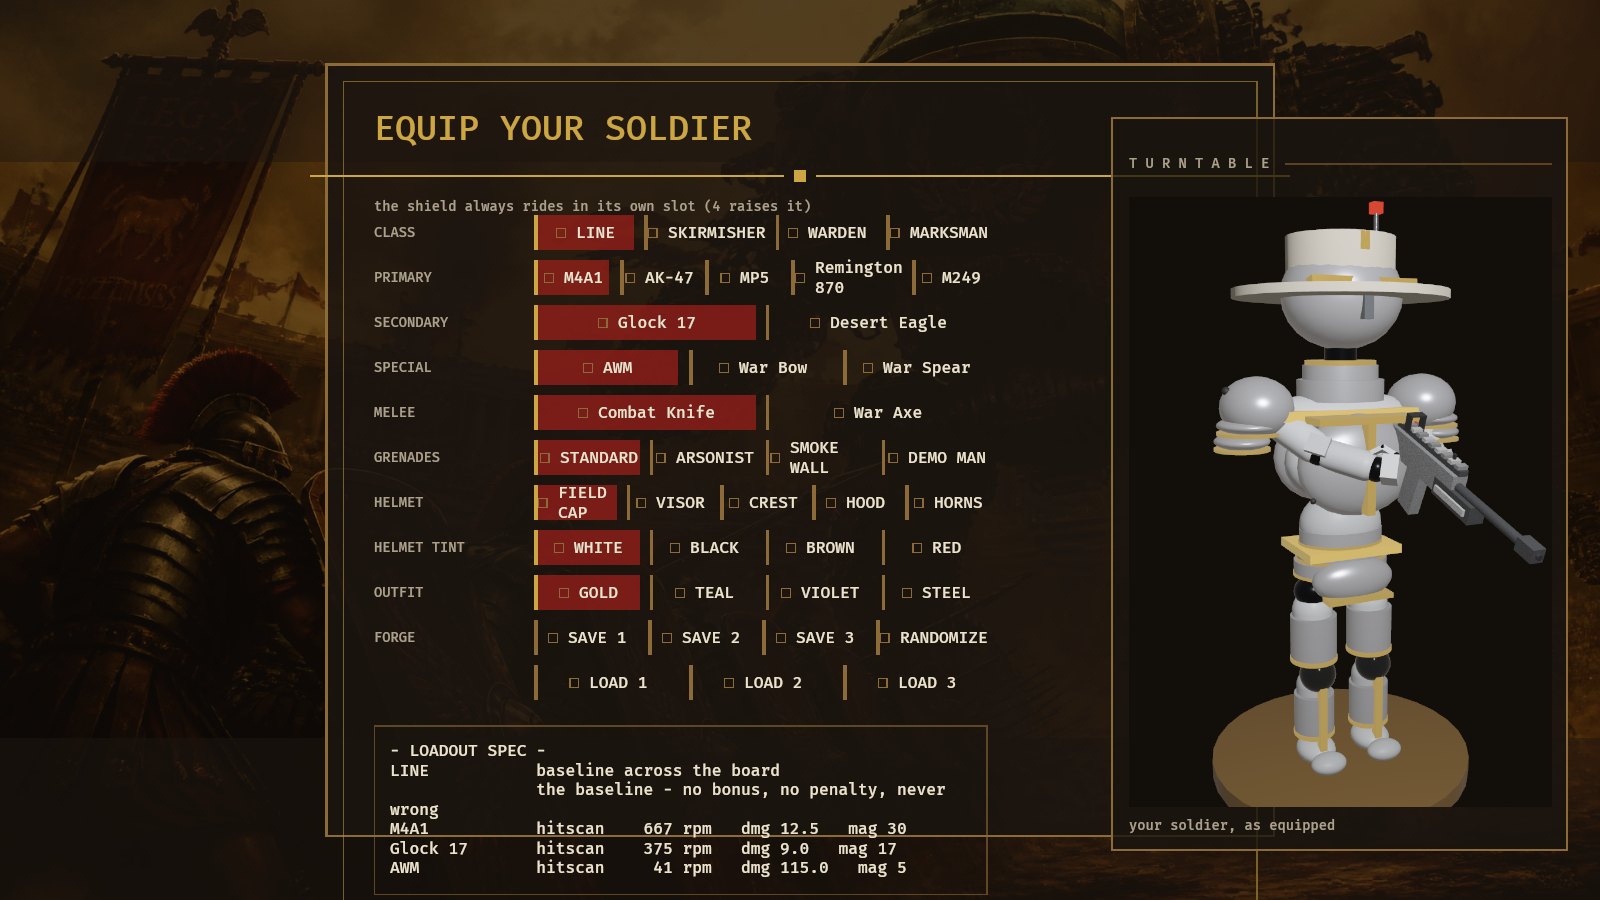
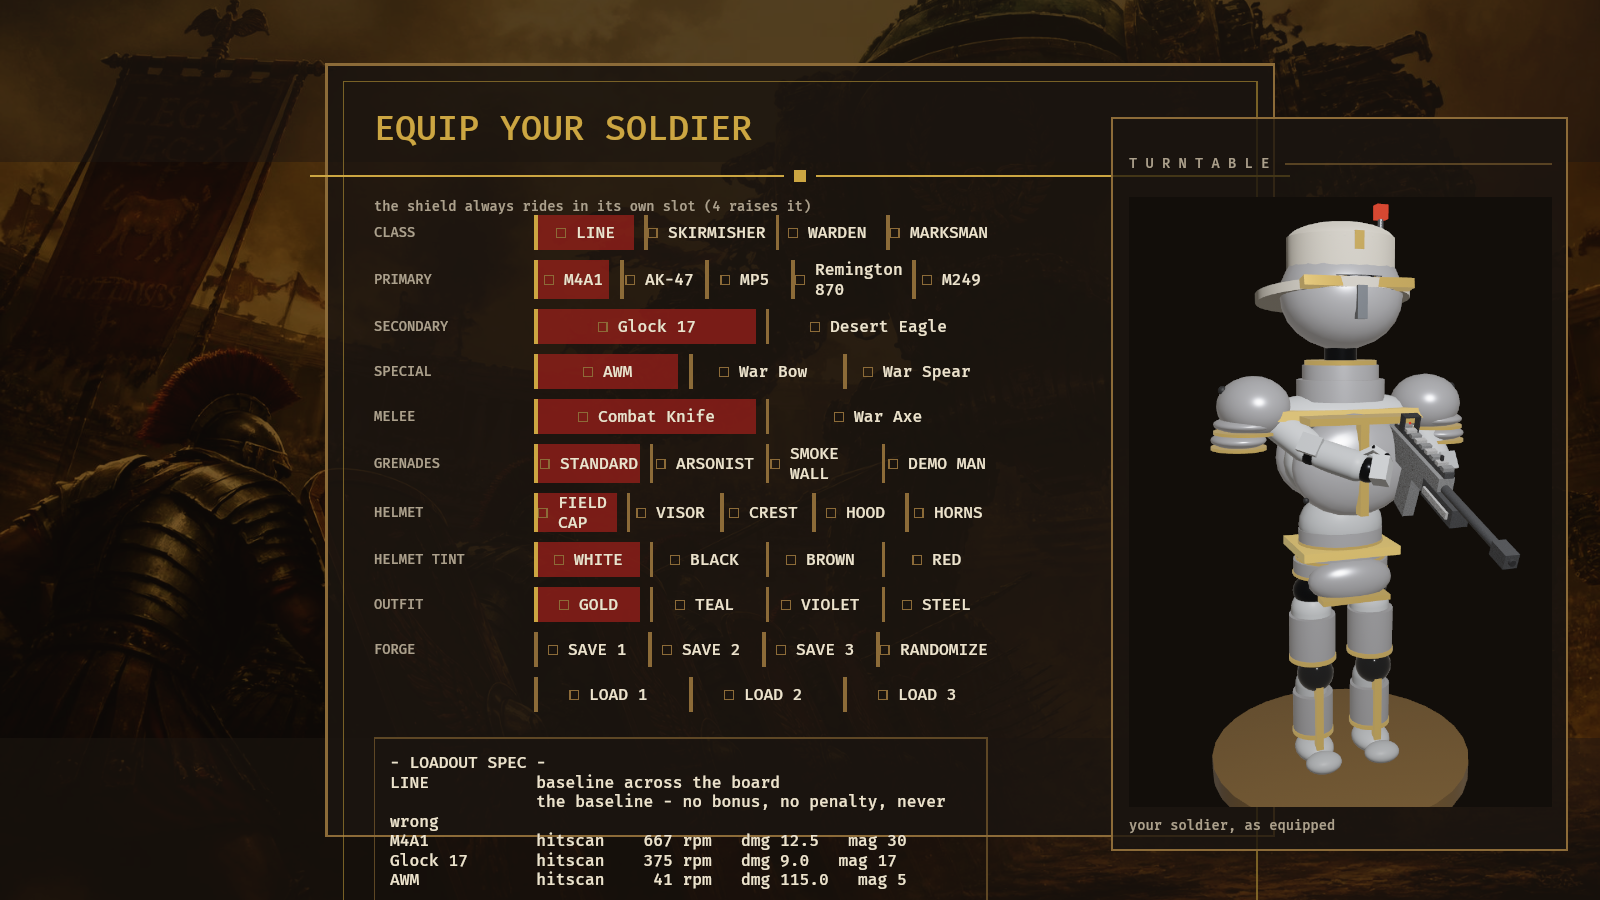
The pill padding cost the soldier page two lines it did not have
Follow-up to 7218e37, caught by actually looking at the capture rather
than at the one page I set out to fix.

`min_height` contained the wrapped plate names, which was the point.
The `U` of vertical padding I added with it did not: it grew every
WRAPPED pill by 10px where the label needs 2, and `pill_row` is used by
the SOLDIER page too, which stacks eleven of them. That page was
ALREADY overrunning the viewport before this module was touched -
02-soldier-page.png at HEAD ends mid-spec-block with no plate border and
no seal - and my 30px pushed the LOADOUT SPEC block down far enough to
lose the Glock 17 and AWM rows off the bottom of the screen.

So the padding is gone. `min_height` alone is the fix; the padding was
comfort bought with space this page does not have.

Captures, both opened and compared against HEAD:

  02-soldier-page.png - the spec block is back to all three rows, same
  as before the change, and "Remington 870", "SMOKE WALL" and "FIELD
  CAP" now sit INSIDE their red fills instead of hanging under them.

  03-armoury-page.png - every one of the seven wrapped plate names is
  contained, and the plate's bottom border and seal are still on screen,
  so the ~10px the page grew is affordable.

The soldier page's own overrun is NOT fixed here. It is pre-existing, it
lives in `open_intro` in main.rs, and it wants a real answer (the spec
block probably belongs on the turntable card) rather than shaving pills.
Recorded, not silently left.
[…]

diff --git a/engine/crates/jk_tdm/src/menu_ui.rs b/engine/crates/jk_tdm/src/menu_ui.rs
@@ -796,8 +796,17 @@ pub fn pill_node() -> Node {
         // regardless of its label's length
         flex_basis: Val::Px(0.0),
         // NOT `height`. See the doc comment above.
+        //
+        // And NO vertical padding, deliberately. The first version of this
+        // added `U` top and bottom, which grew every WRAPPED pill by 10px
+        // rather than the 2px it actually needs - and the SOLDIER page,
+        // which was already overrunning the viewport before this module
+        // was touched (`02-soldier-page.png` at HEAD ends mid-spec-block,
+        // with no plate border and no seal), lost two more lines of its
+        // loadout spec. `min_height` alone contains the label, which was
+        // the whole requirement; the padding was comfort bought with
+        // space this page does not have.
         min_height: Val::Px(PILL_H),
-        padding: UiRect::vertical(Val::Px(U)),
         justify_content: JustifyContent::Center,
         align_items: AlignItems::Center,
         column_gap: Val::Px(U2),
